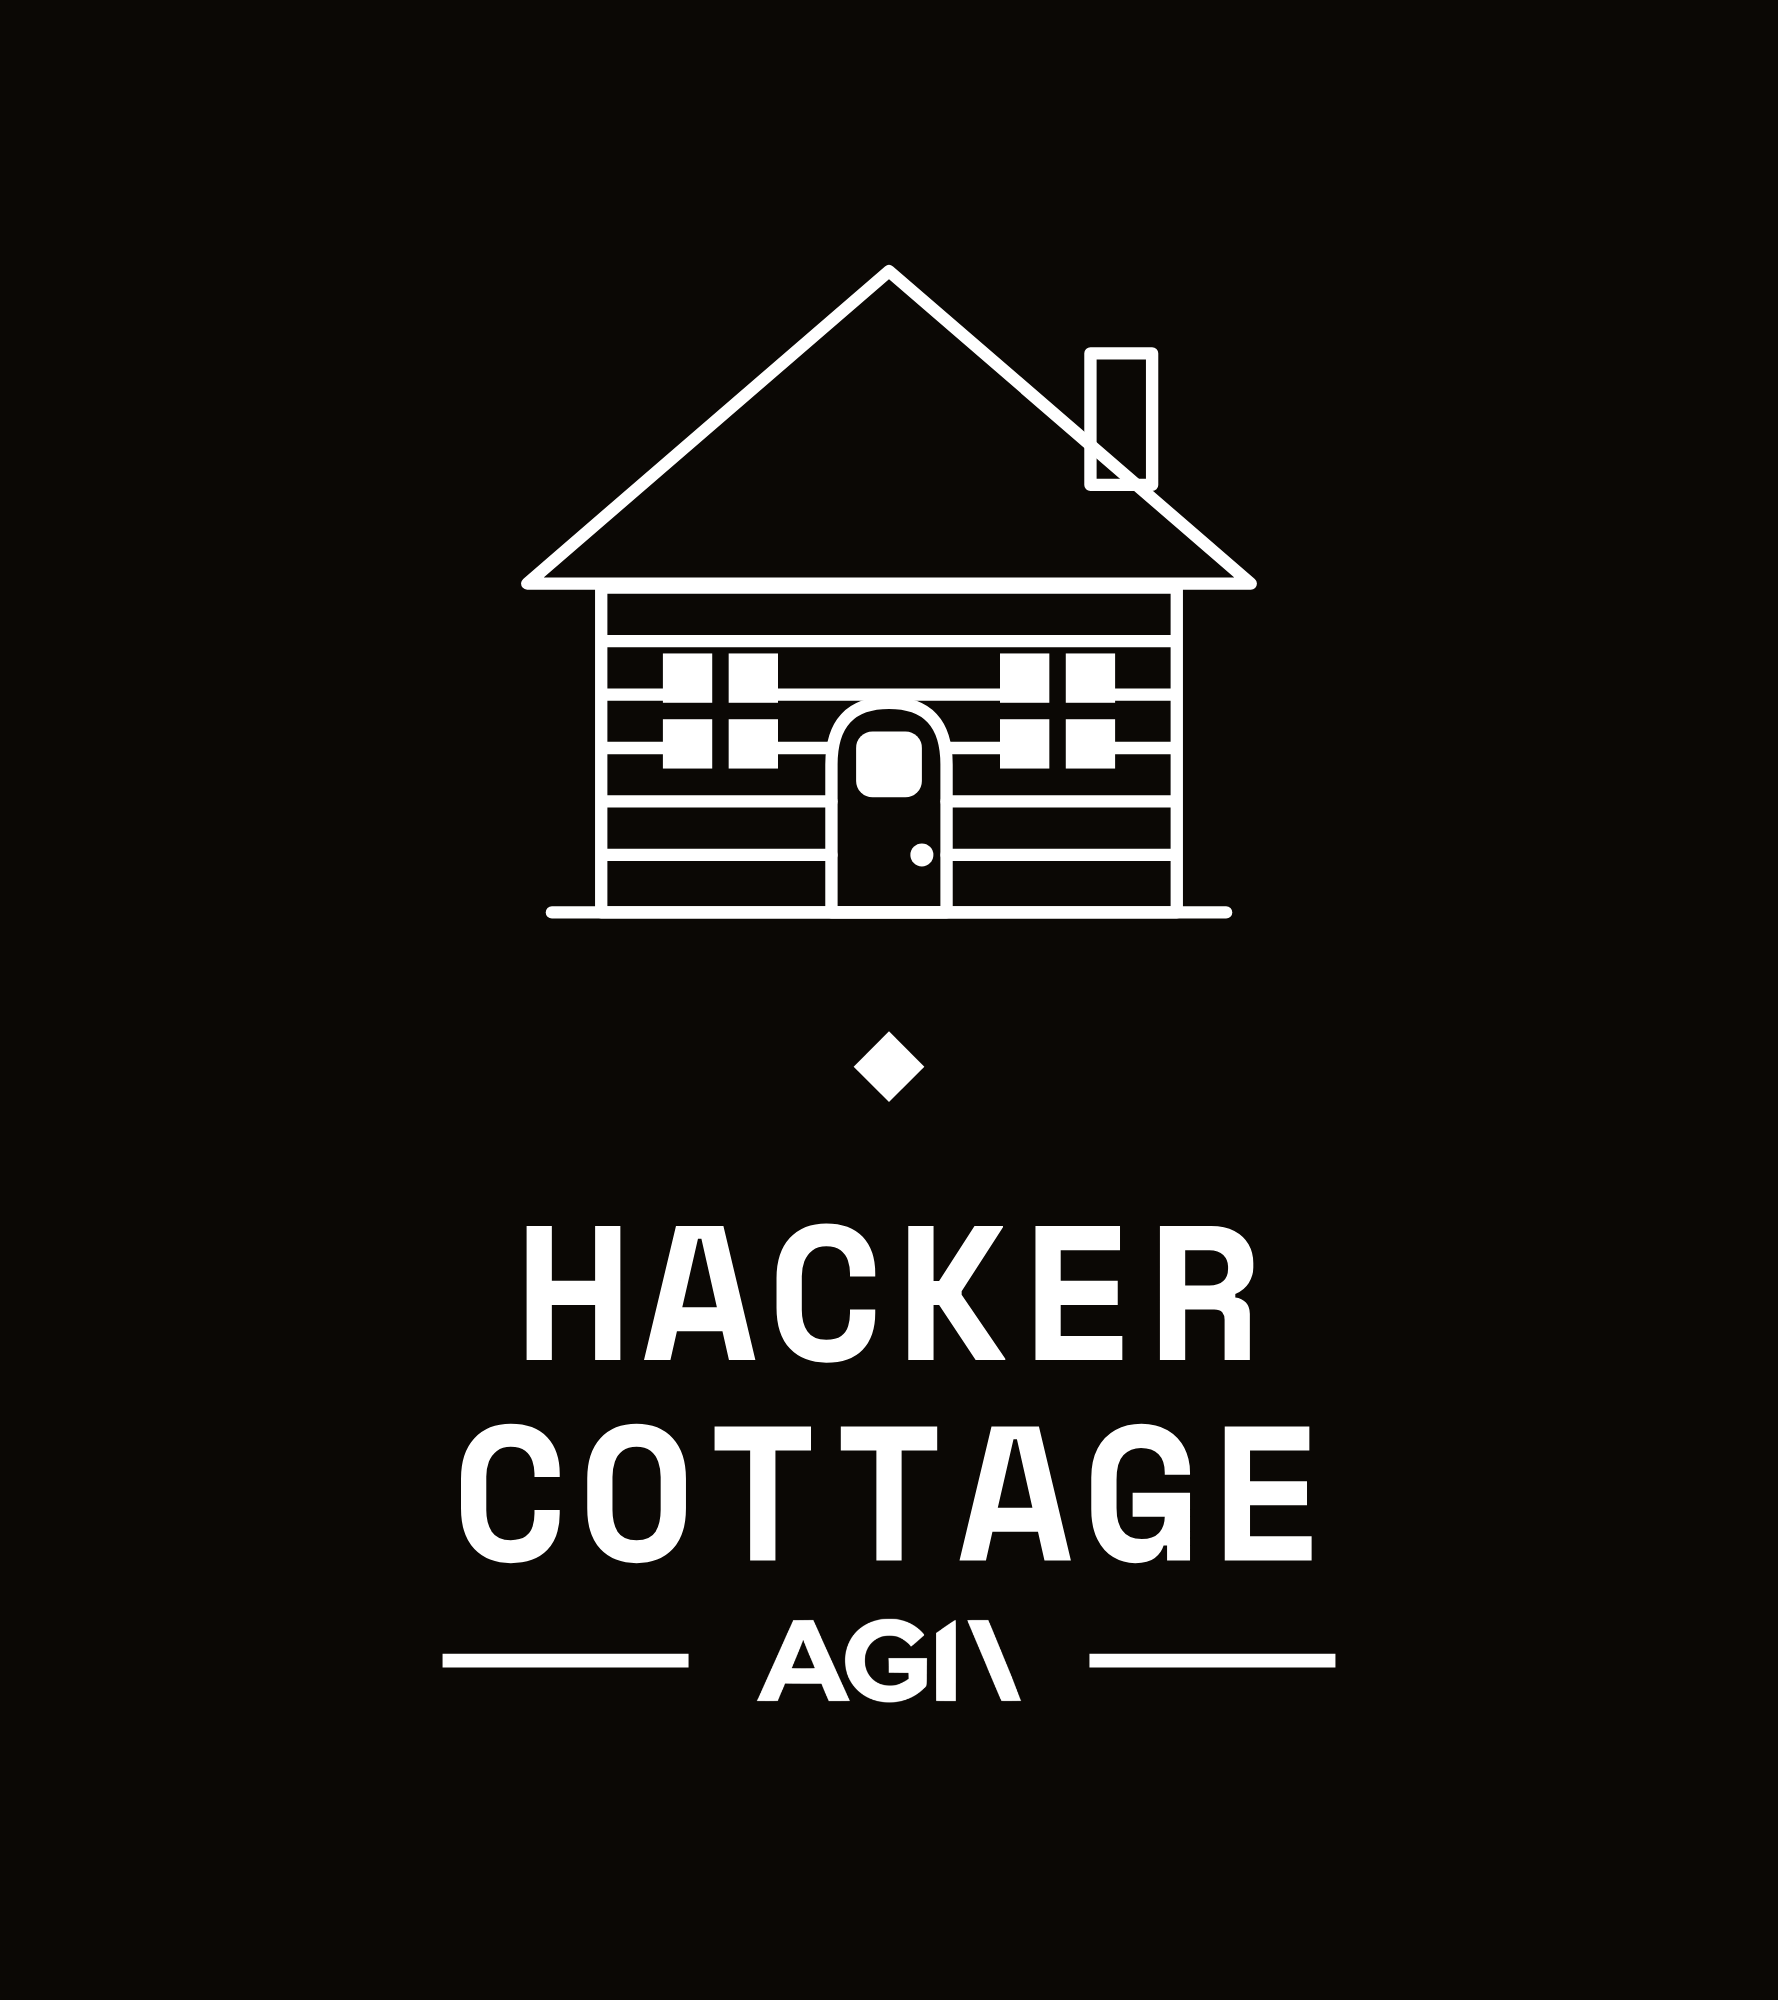
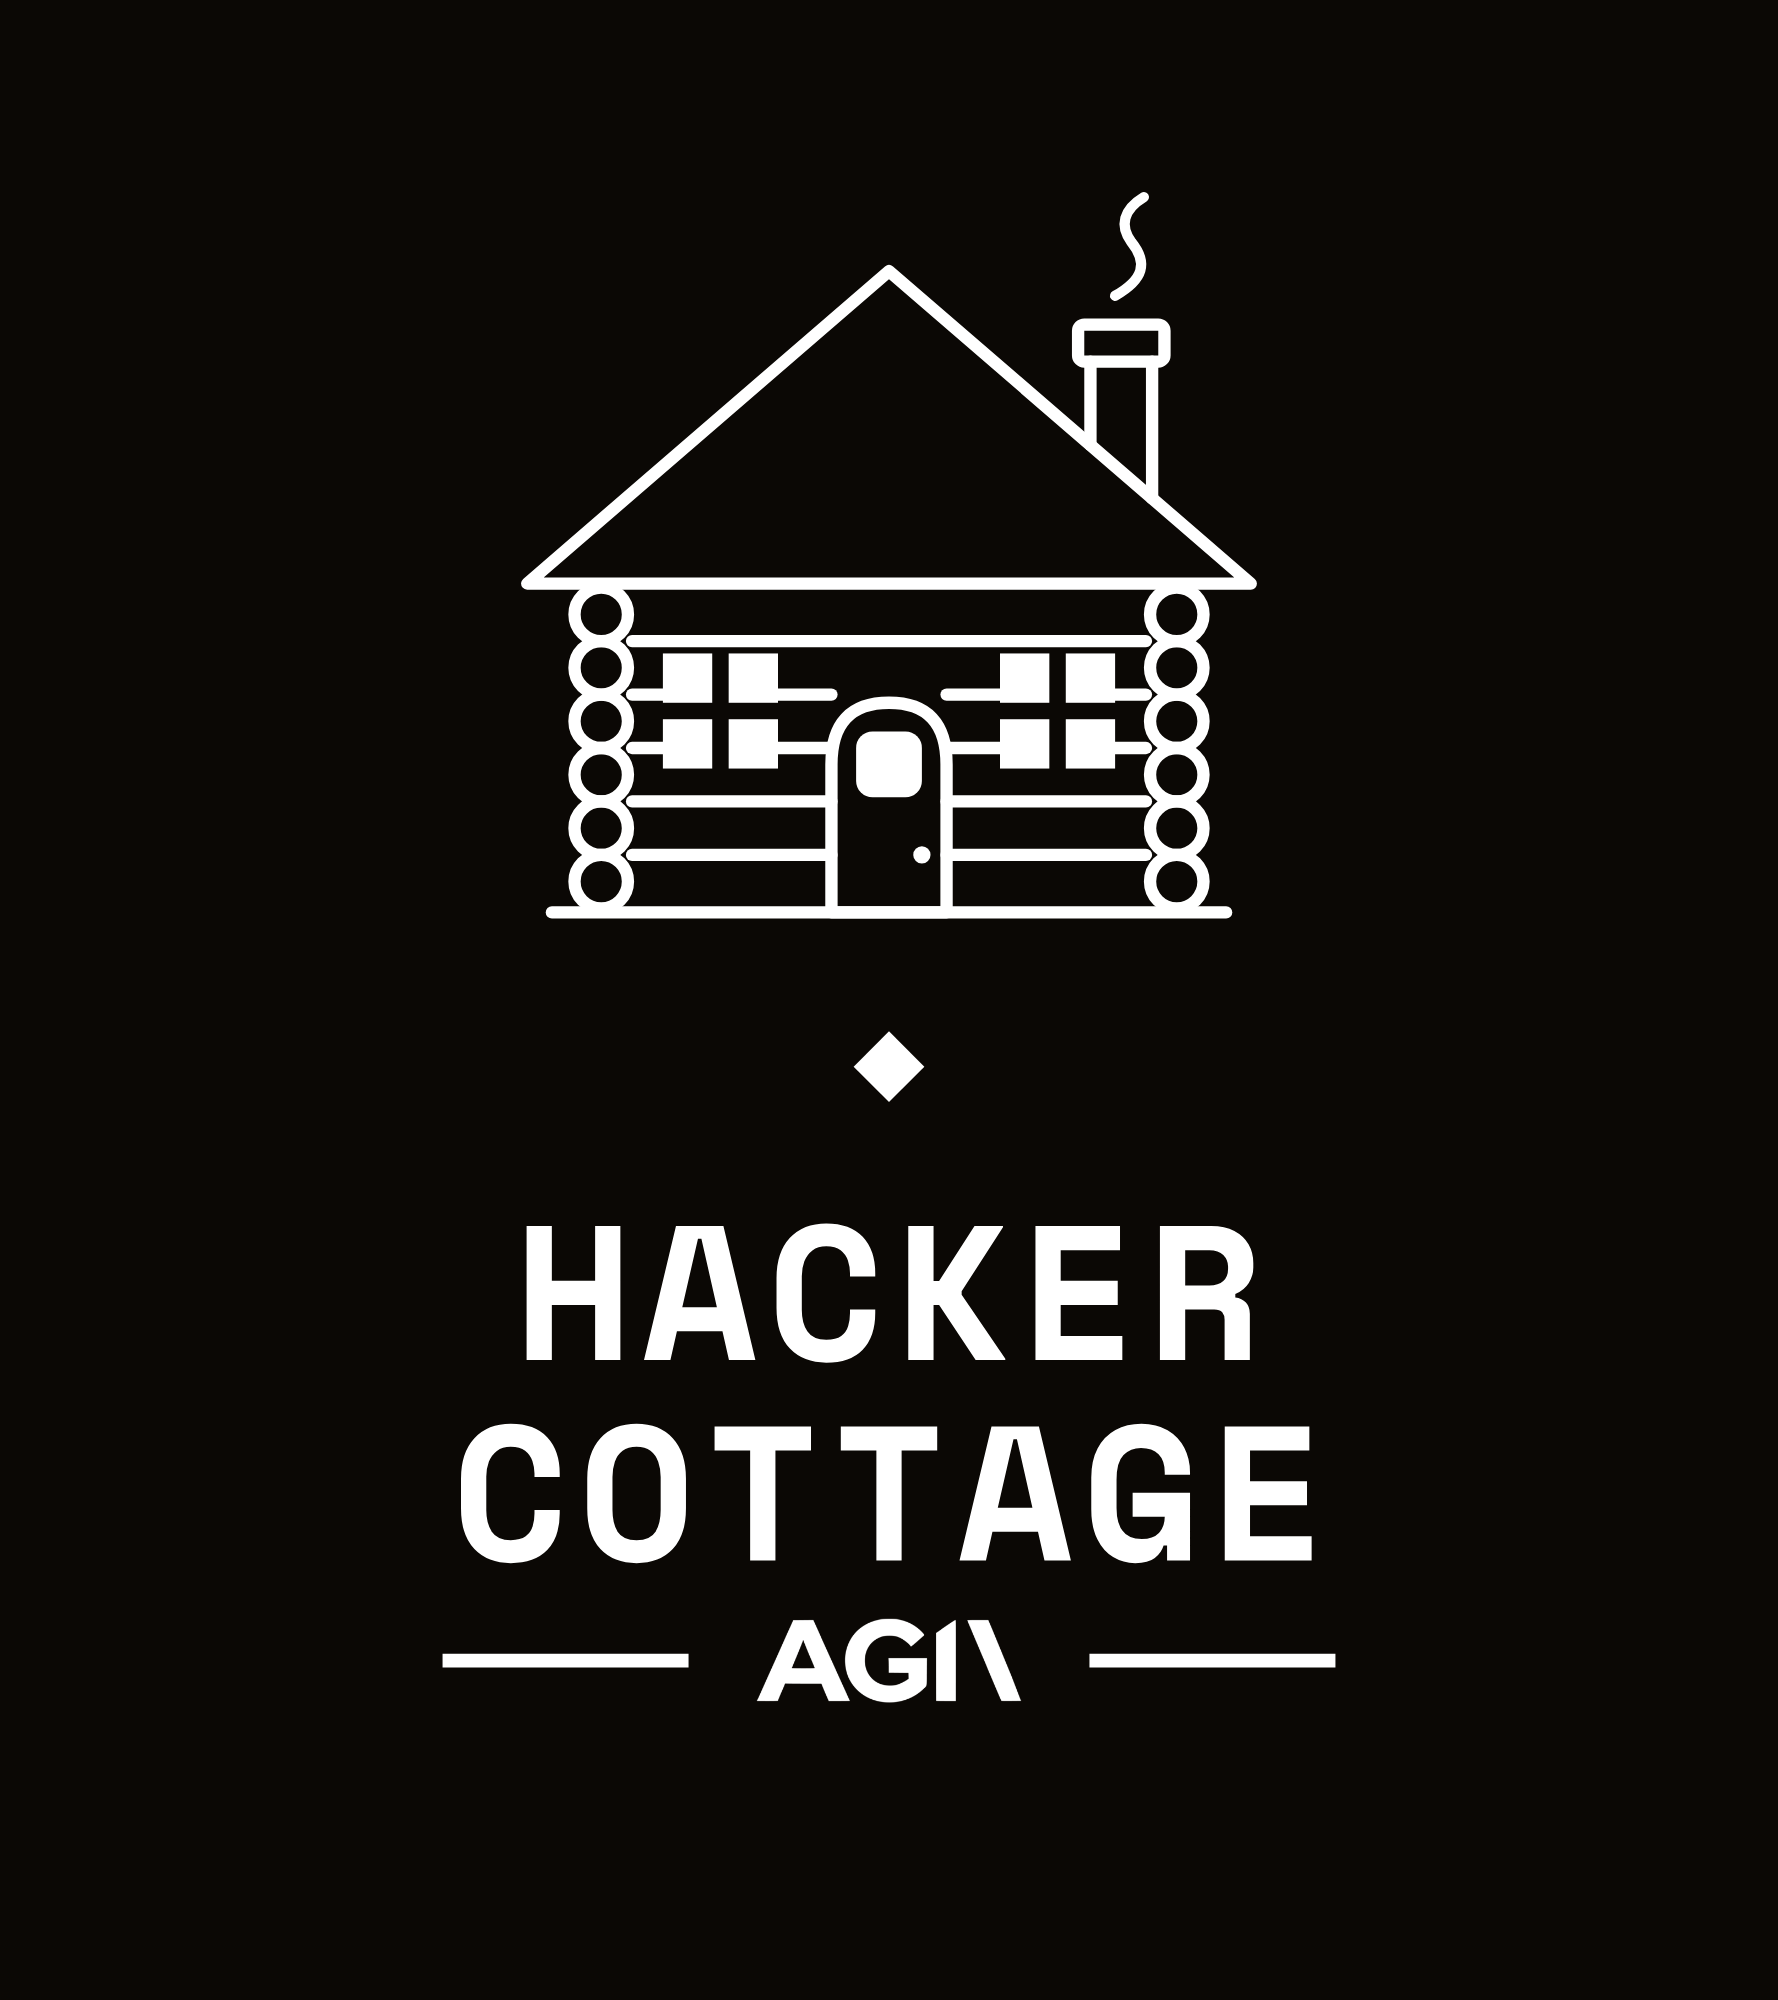
merch-hat: cabin polish (inline capped chimney, log-end sides, smoke, smaller knob)
Claude-Session: https://claude.ai/code/session_011JxAGW3sdgKn8ctyr3Rkna

diff --git a/merch-hat/index.html b/merch-hat/index.html
@@ -185,7 +185,7 @@
       <rect x="124" y="141" width="34" height="4" fill="#5A3A24"/>
       <path d="M 86 176 L 86 140 Q 86 125 100 125 Q 114 125 114 140 L 114 176 Z" fill="#5A3A24" stroke="#5A3A24" stroke-width="2.5"/>
       <rect x="92" y="132" width="16" height="16" rx="4" fill="#67B8CB" stroke="#4A2F1C" stroke-width="1.4"/>
-      <circle cx="108" cy="162" r="2.8" fill="#F2D45B"/>
+      <circle cx="108" cy="162" r="2.1" fill="#F2D45B"/>
       <line x1="18" y1="176" x2="182" y2="176" stroke="#5A3A24" stroke-width="3.5" stroke-linecap="round"/>
     </symbol>
 
@@ -193,19 +193,25 @@
          strokes; window panes, the door light and the knob are solid fills. All detail
          is unengraved gaps: pane gaps read as mullions (~1 mm at print size), and the
          log lines stop at the window and door edges because in one color anything
-         passing behind an opening would show through it. -->
+         passing behind an opening would show through it. The chimney is two side
+         lines ending on the roof slope (y = 20 + (x-100)*76/88) so nothing crosses
+         the roofline; wall sides are stacked log-end circles like the color mark. -->
     <symbol id="d-cabin-mono" viewBox="0 0 200 190">
       <g fill="none" stroke="currentColor" stroke-width="3" stroke-linejoin="round" stroke-linecap="round">
-        <rect x="149" y="40" width="15" height="32"/>
+        <rect x="146" y="33" width="21" height="9" rx="1.5"/>
+        <line x1="149" y1="42" x2="149" y2="62.3"/>
+        <line x1="164" y1="42" x2="164" y2="75.3"/>
         <path d="M 100 20 L 12 96 L 188 96 Z"/>
-        <rect x="30" y="97" width="140" height="79"/>
-        <line x1="31" y1="110" x2="169" y2="110"/>
-        <line x1="31" y1="123" x2="45" y2="123"/><line x1="73" y1="123" x2="127" y2="123"/><line x1="155" y1="123" x2="169" y2="123"/>
-        <line x1="31" y1="136" x2="45" y2="136"/><line x1="73" y1="136" x2="86" y2="136"/><line x1="114" y1="136" x2="127" y2="136"/><line x1="155" y1="136" x2="169" y2="136"/>
-        <line x1="31" y1="149" x2="86" y2="149"/><line x1="114" y1="149" x2="169" y2="149"/>
-        <line x1="31" y1="162" x2="86" y2="162"/><line x1="114" y1="162" x2="169" y2="162"/>
+        <circle cx="30" cy="103.5" r="6.5"/><circle cx="30" cy="116.5" r="6.5"/><circle cx="30" cy="129.5" r="6.5"/><circle cx="30" cy="142.5" r="6.5"/><circle cx="30" cy="155.5" r="6.5"/><circle cx="30" cy="168.5" r="6.5"/>
+        <circle cx="170" cy="103.5" r="6.5"/><circle cx="170" cy="116.5" r="6.5"/><circle cx="170" cy="129.5" r="6.5"/><circle cx="170" cy="142.5" r="6.5"/><circle cx="170" cy="155.5" r="6.5"/><circle cx="170" cy="168.5" r="6.5"/>
+        <line x1="37.5" y1="110" x2="162.5" y2="110"/>
+        <line x1="37.5" y1="123" x2="45" y2="123"/><line x1="73" y1="123" x2="86" y2="123"/><line x1="114" y1="123" x2="127" y2="123"/><line x1="155" y1="123" x2="162.5" y2="123"/>
+        <line x1="37.5" y1="136" x2="45" y2="136"/><line x1="73" y1="136" x2="86" y2="136"/><line x1="114" y1="136" x2="127" y2="136"/><line x1="155" y1="136" x2="162.5" y2="136"/>
+        <line x1="37.5" y1="149" x2="86" y2="149"/><line x1="114" y1="149" x2="162.5" y2="149"/>
+        <line x1="37.5" y1="162" x2="86" y2="162"/><line x1="114" y1="162" x2="162.5" y2="162"/>
         <line x1="18" y1="176" x2="182" y2="176"/>
         <path d="M 86 176 L 86 140 Q 86 125 100 125 Q 114 125 114 140 L 114 176 Z"/>
+        <g stroke-width="2.5"><path d="M 155 26 c 7 -4 8 -8 4 -13 c -3 -4 -2 -8 3 -11"/></g>
       </g>
       <g fill="currentColor">
         <rect x="45" y="113" width="12" height="12"/><rect x="61" y="113" width="12" height="12"/>
@@ -213,7 +219,7 @@
         <rect x="127" y="113" width="12" height="12"/><rect x="143" y="113" width="12" height="12"/>
         <rect x="127" y="129" width="12" height="12"/><rect x="143" y="129" width="12" height="12"/>
         <rect x="92" y="132" width="16" height="16" rx="4"/>
-        <circle cx="108" cy="162" r="2.8"/>
+        <circle cx="108" cy="162" r="2.1"/>
       </g>
     </symbol>
 
